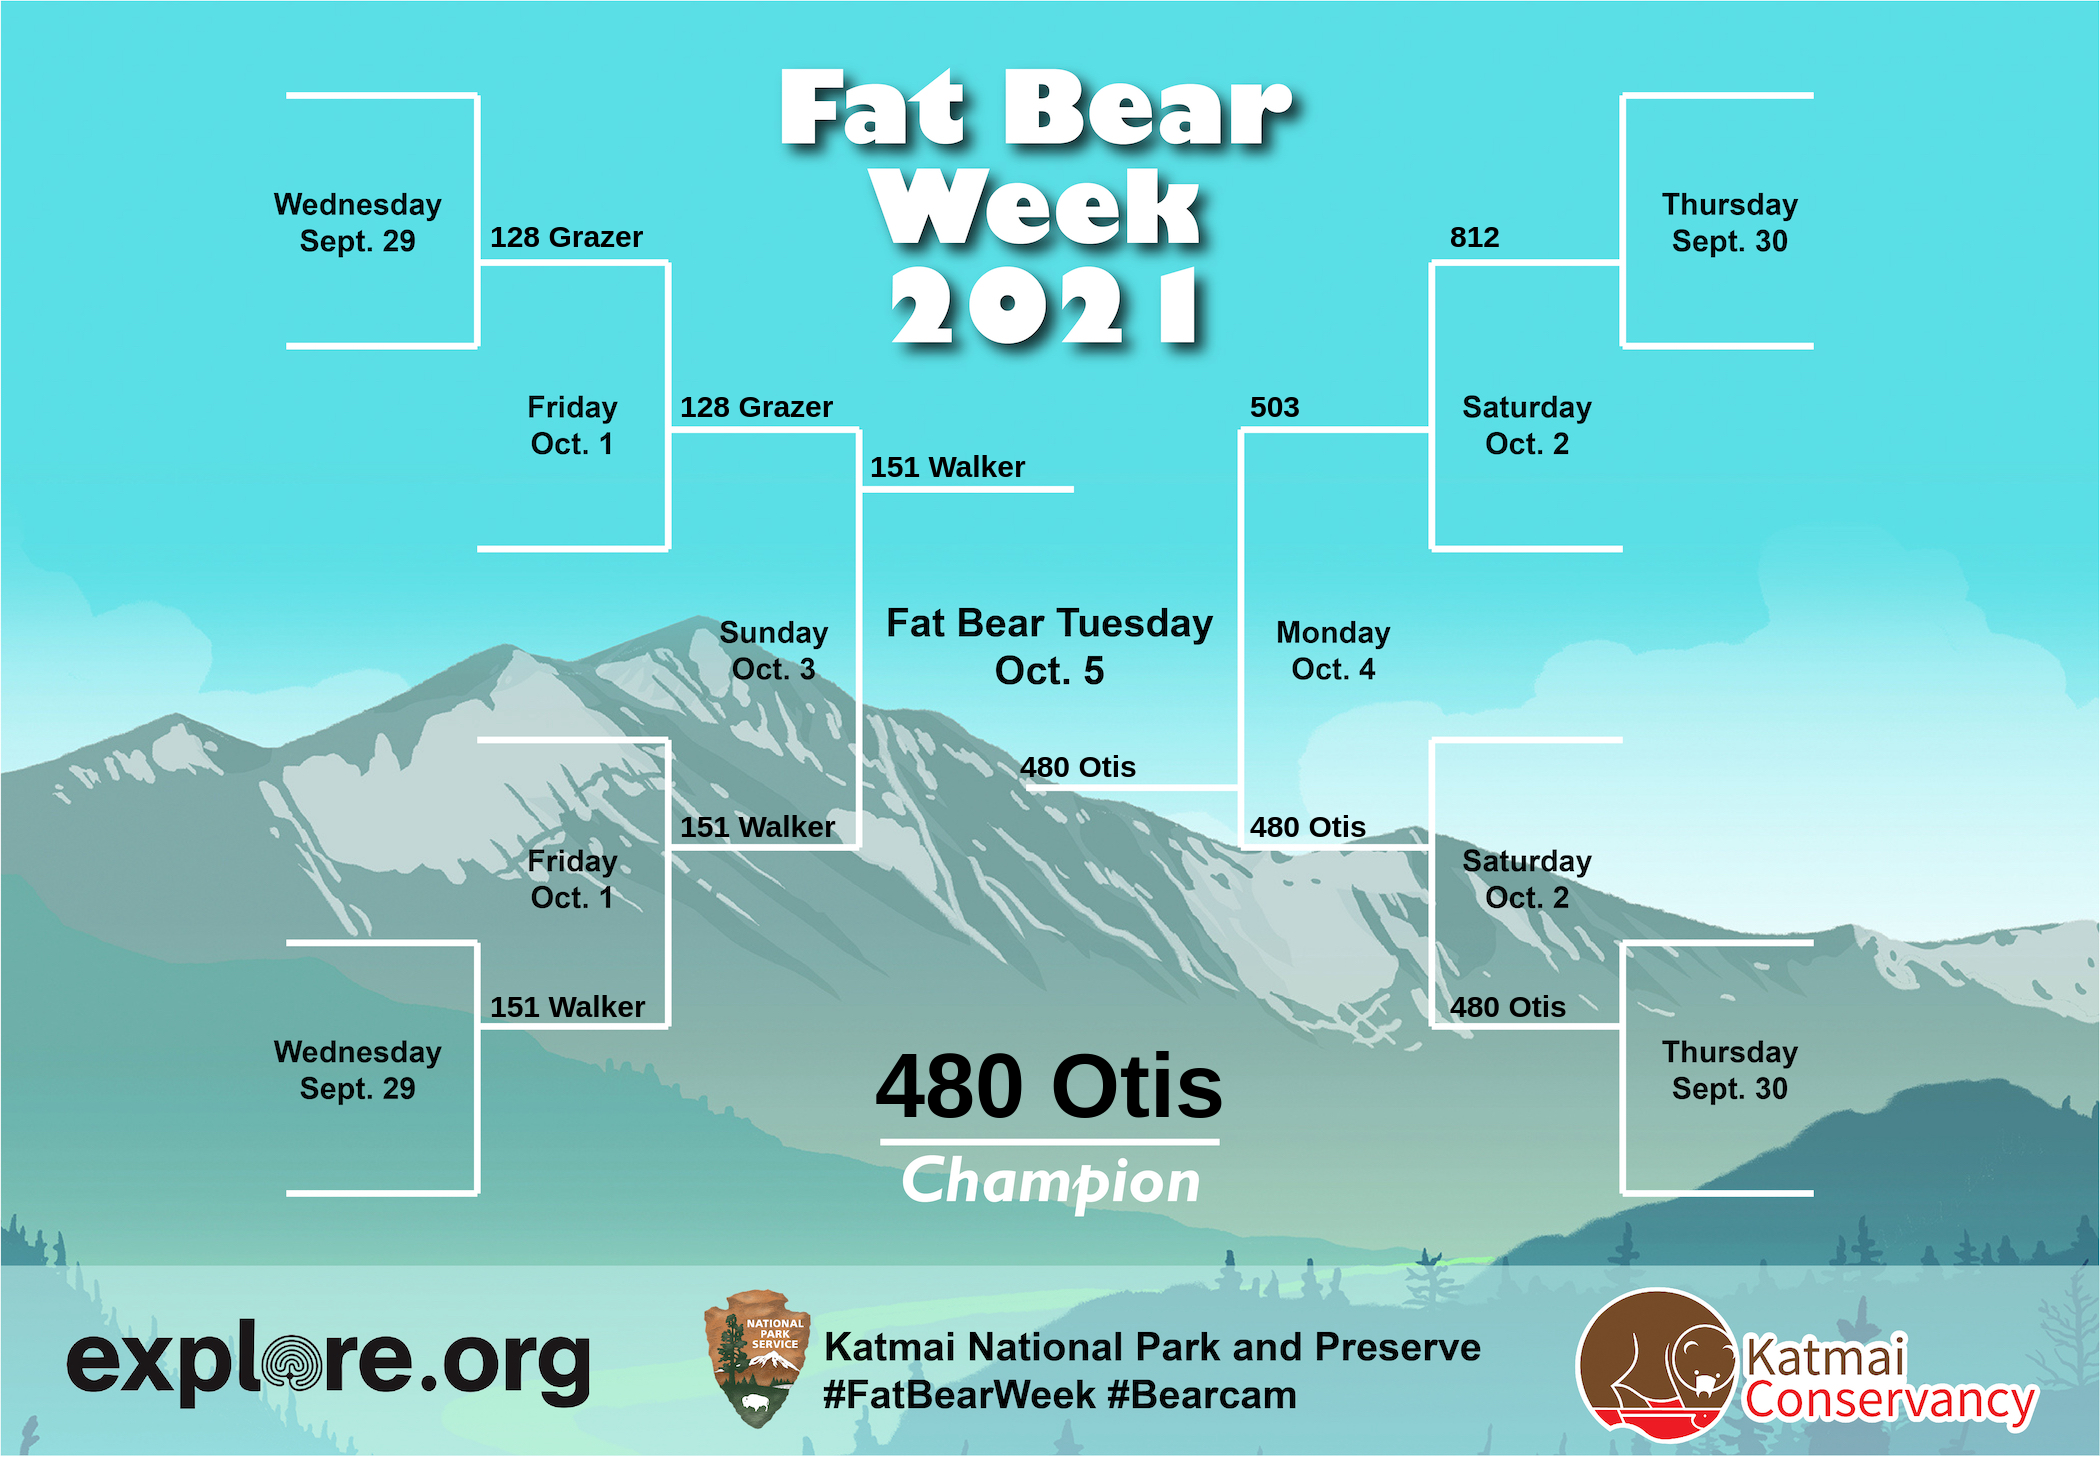
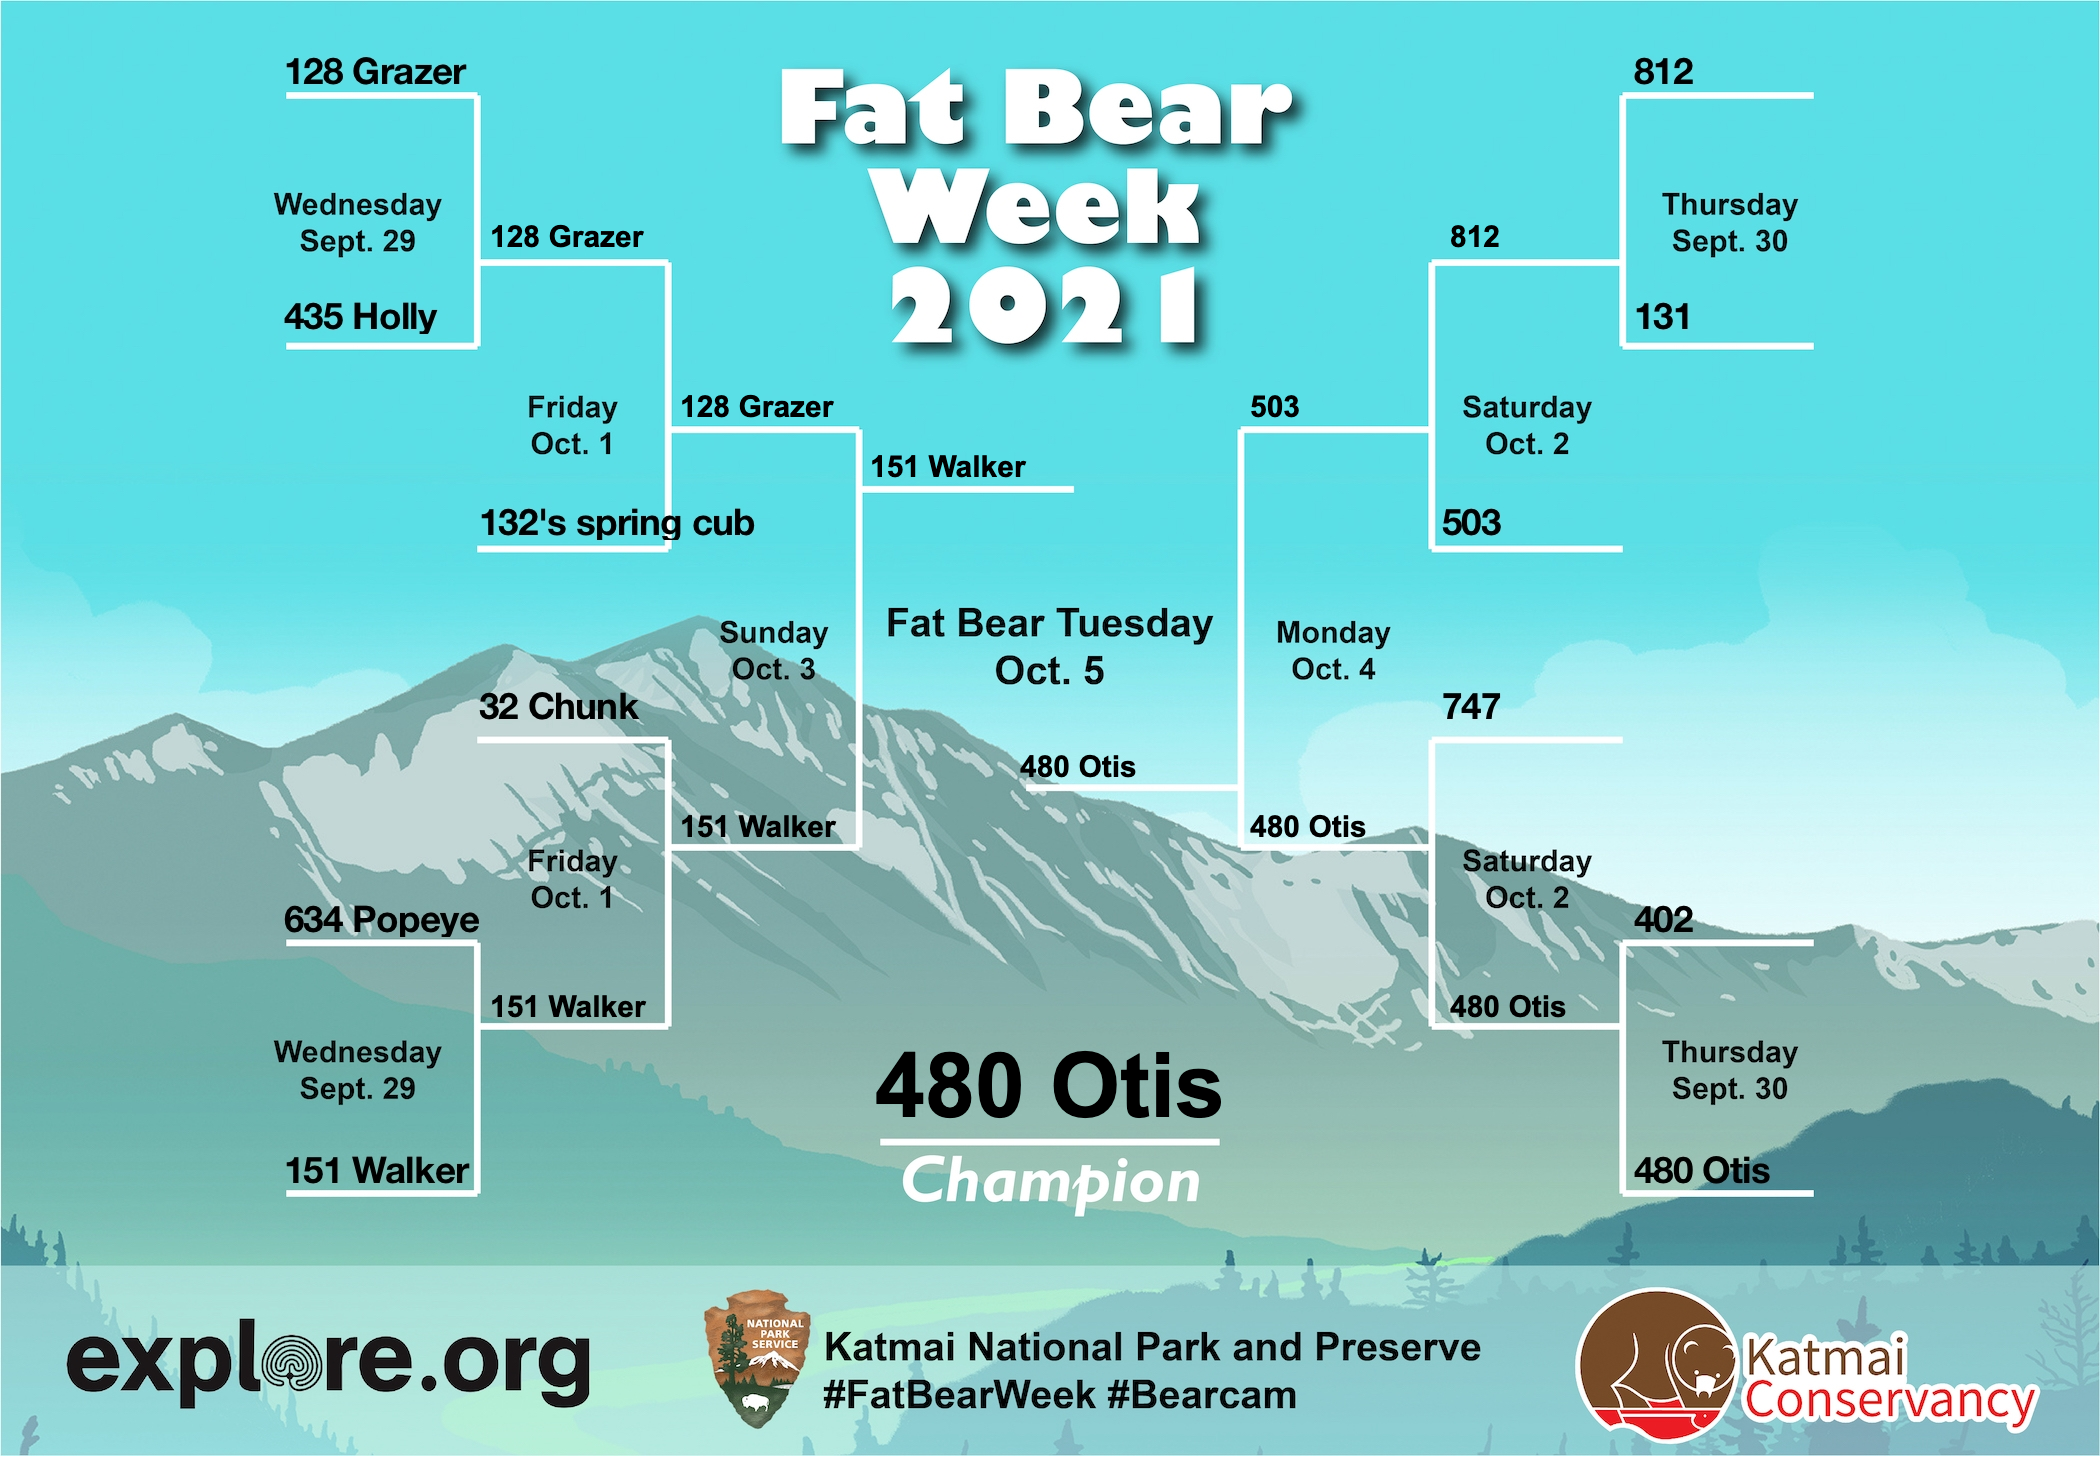
update empty bracket with real bears!

diff --git a/docs/index.html b/docs/index.html
@@ -67,7 +67,7 @@
   </tr>
   <tr>
     <td class="left-picks" rowspan="2">
-      mgwalker
+      <a href="brackets/mgwalker.png">mgwalker</a>
     </td>
     <td class="bear">128 Grazer</td>
     <td class="vs" rowspan="2">vs.</td>
@@ -89,13 +89,13 @@
   </tr>
   <tr>
     <td class="left-picks" rowspan="2">
-      nobody
+      <a href="brackets/nobody.png">nobody</a>
     </td>
     <td class="bear">634 Popeye</td>
     <td class="vs" rowspan="2">vs.</td>
     <td class="bear">151 Walker</td>
     <td class="right-picks" rowspan="2">
-      mgwalker
+      <a href="brackets/mgwalker.png">mgwalker</a>
     </td>
   </tr>
   <tr>
@@ -111,7 +111,7 @@
   </tr>
   <tr>
     <td class="left-picks" rowspan="2">
-      mgwalker
+      <a href="brackets/mgwalker.png">mgwalker</a>
     </td>
     <td class="bear">812</td>
     <td class="vs" rowspan="2">vs.</td>
@@ -133,13 +133,13 @@
   </tr>
   <tr>
     <td class="left-picks" rowspan="2">
-      nobody
+      <a href="brackets/nobody.png">nobody</a>
     </td>
     <td class="bear">402</td>
     <td class="vs" rowspan="2">vs.</td>
     <td class="bear">480 Otis</td>
     <td class="right-picks" rowspan="2">
-      mgwalker
+      <a href="brackets/mgwalker.png">mgwalker</a>
     </td>
   </tr>
   <tr>

diff --git a/site/pages.js b/site/pages.js
@@ -58,13 +58,21 @@ const pages = async () => {
   </tr>
   <tr>
     <td class="left-picks" rowspan="2">
-      ${left.picks.join("<br/>")}
+      ${left.picks
+        .map((u) =>
+          u === "nobody" ? "nobody" : `<a href="brackets/${u}.png">${u}</a>`
+        )
+        .join("<br/>")}
     </td>
     <td class="bear">${left.bear}</td>
     <td class="vs" rowspan="2">vs.</td>
     <td class="bear">${right.bear}</td>
     <td class="right-picks" rowspan="2">
-      ${right.picks.join("<br/>")}
+      ${right.picks
+        .map((u) =>
+          u === "nobody" ? "nobody" : `<a href="brackets/${u}.png">${u}</a>`
+        )
+        .join("<br/>")}
     </td>
   </tr>
   <tr>

diff --git a/site/main.js b/site/main.js
@@ -15,6 +15,11 @@ const exists = async (path) => {
   }
 };
 
+// 128 vs 435, winner takes on 132 cub,
+// 634 vs 151 winner takes on 32
+// 812 vs 131 winner takes on 503
+// 402 vs 480 winner takes on 747
+
 (async () => {
   let browser;
   try {
